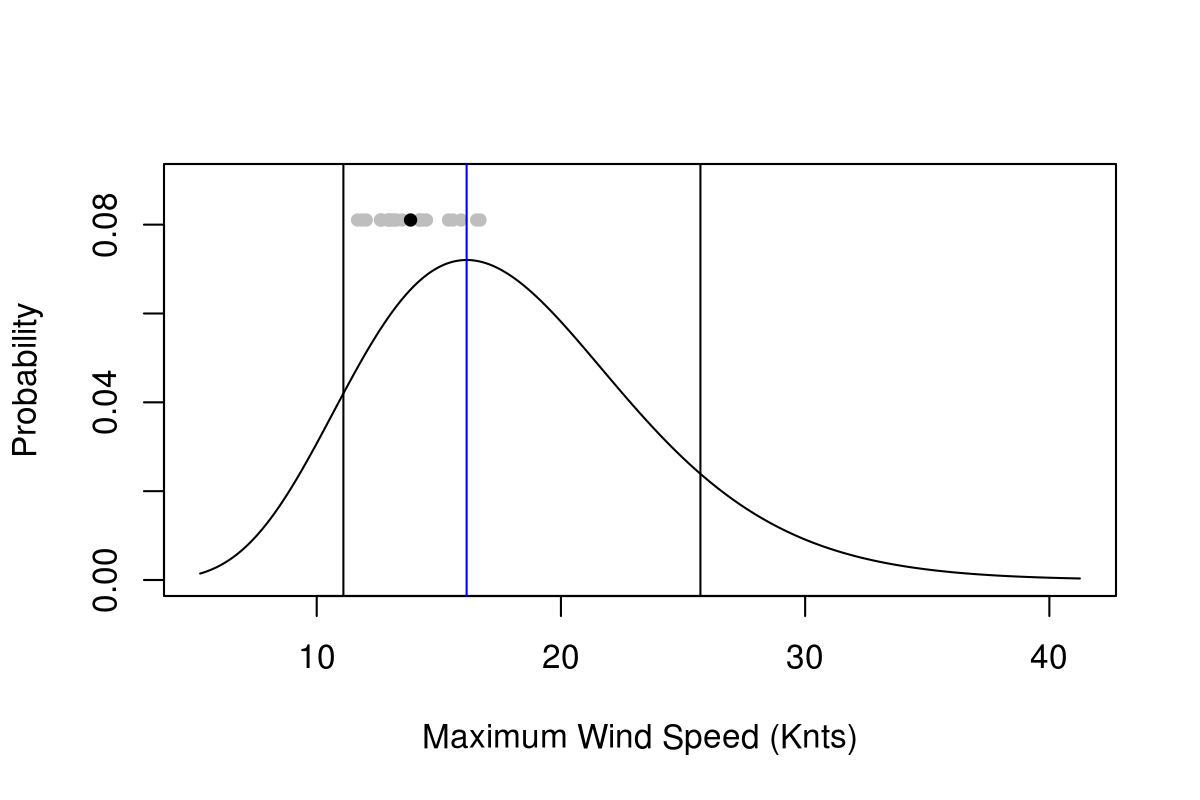
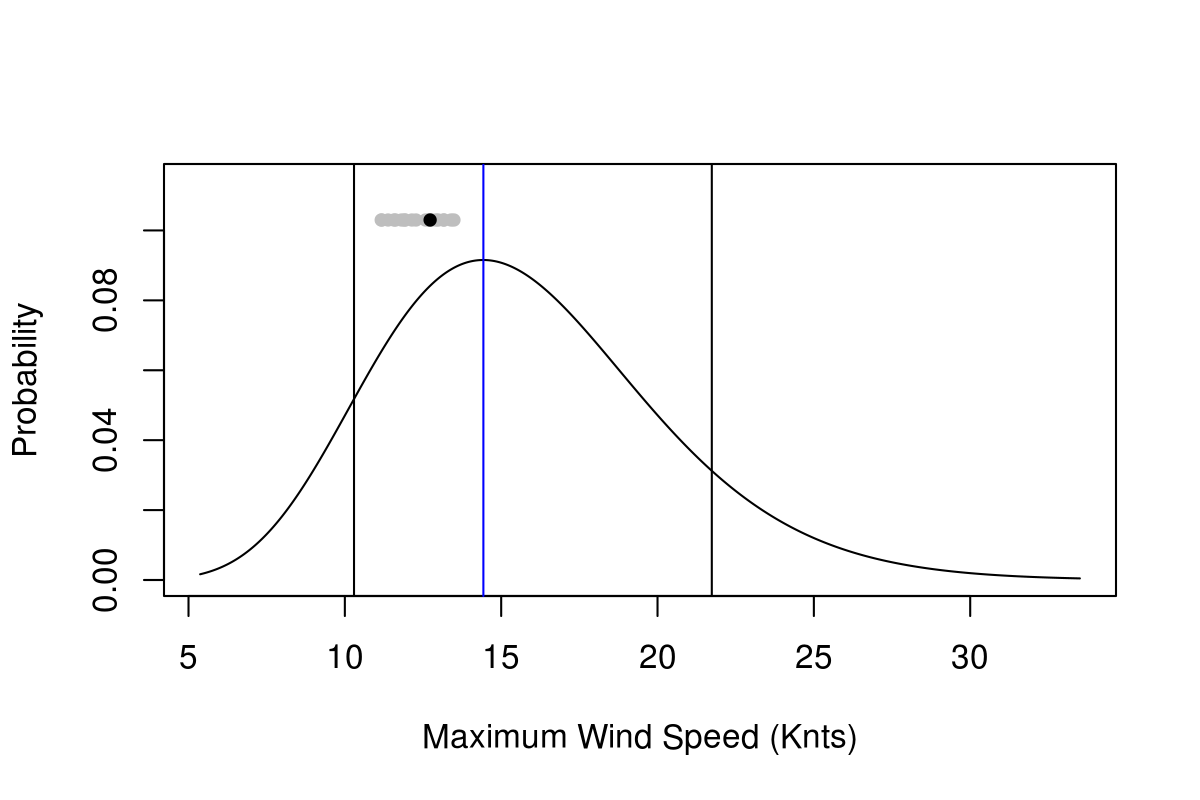
WxChallenge update

diff --git a/wxchallenge.md b/wxchallenge.md
@@ -10,11 +10,11 @@ This page provides some tools I use to help me in the [WxChallenge](http://www.w
 * [SREF Plume Viewer](http://www.spc.noaa.gov/exper/sref/srefplumes/)
 * [WxChallenge WxData](http://www.wxchallenge.com/tools/weatherdata.php)
 
-## Calibrated PDFs for KGRI for Tuesday, October 25
+## Calibrated PDFs for KGRI for Wednesday, October 26
 
 For information on Bayesian Model Averaging (BMA), scroll to the [bottom of this page](#bma). Click on each image to enlarge it.
 
-> Plots updated 2016-10-24 18:11 GMT
+> Plots updated 2016-10-25 18:17 GMT
 
 <p align="center"><strong>Maximum Temperature</strong></p>
 [<img src="tmax.png" width="700"/>](tmax.png)
